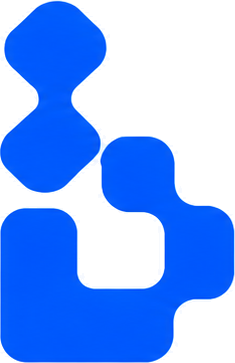
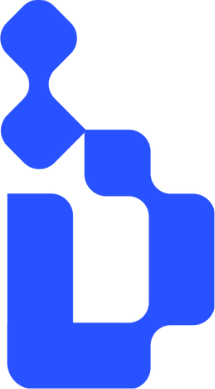
Remplace le symbole B par la version officielle fournie
Symbole couleur et blanc, icône d'application et icône Apple régénérés
à partir du B officiel (aplat bleu vibrant #2851FF de la charte).

Claude-Session: https://claude.ai/code/session_01TrmUQVpvb6yTRhyymzghDf

diff --git a/src/components/shell/logo.tsx b/src/components/shell/logo.tsx
@@ -15,5 +15,5 @@ export function Logo({ variant = "color", width = 180, className, priority }: { 
 /** Symbole seul (version secondaire officielle). */
 export function LogoSymbol({ variant = "color", size = 28, className }: { variant?: "color" | "white"; size?: number; className?: string }) {
   const src = variant === "white" ? "/brand/beemarketing-symbol-white.png" : "/brand/beemarketing-symbol.png";
-  return <Image src={src} alt="" aria-hidden width={Math.round((size * 235) / 363)} height={size} className={cn("select-none", className)} />;
+  return <Image src={src} alt="" aria-hidden width={Math.round((size * 215) / 389)} height={size} className={cn("select-none", className)} />;
 }
